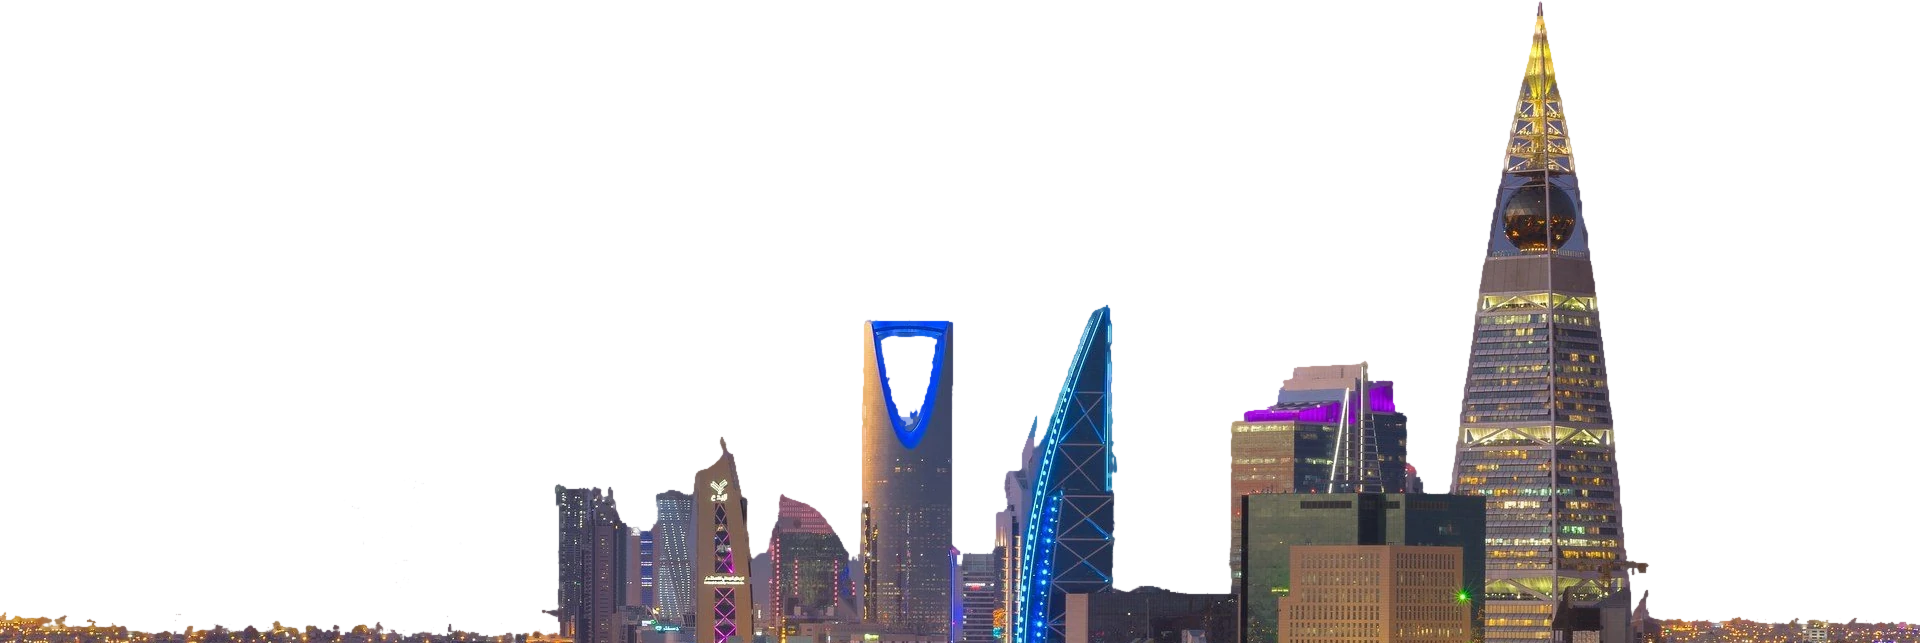
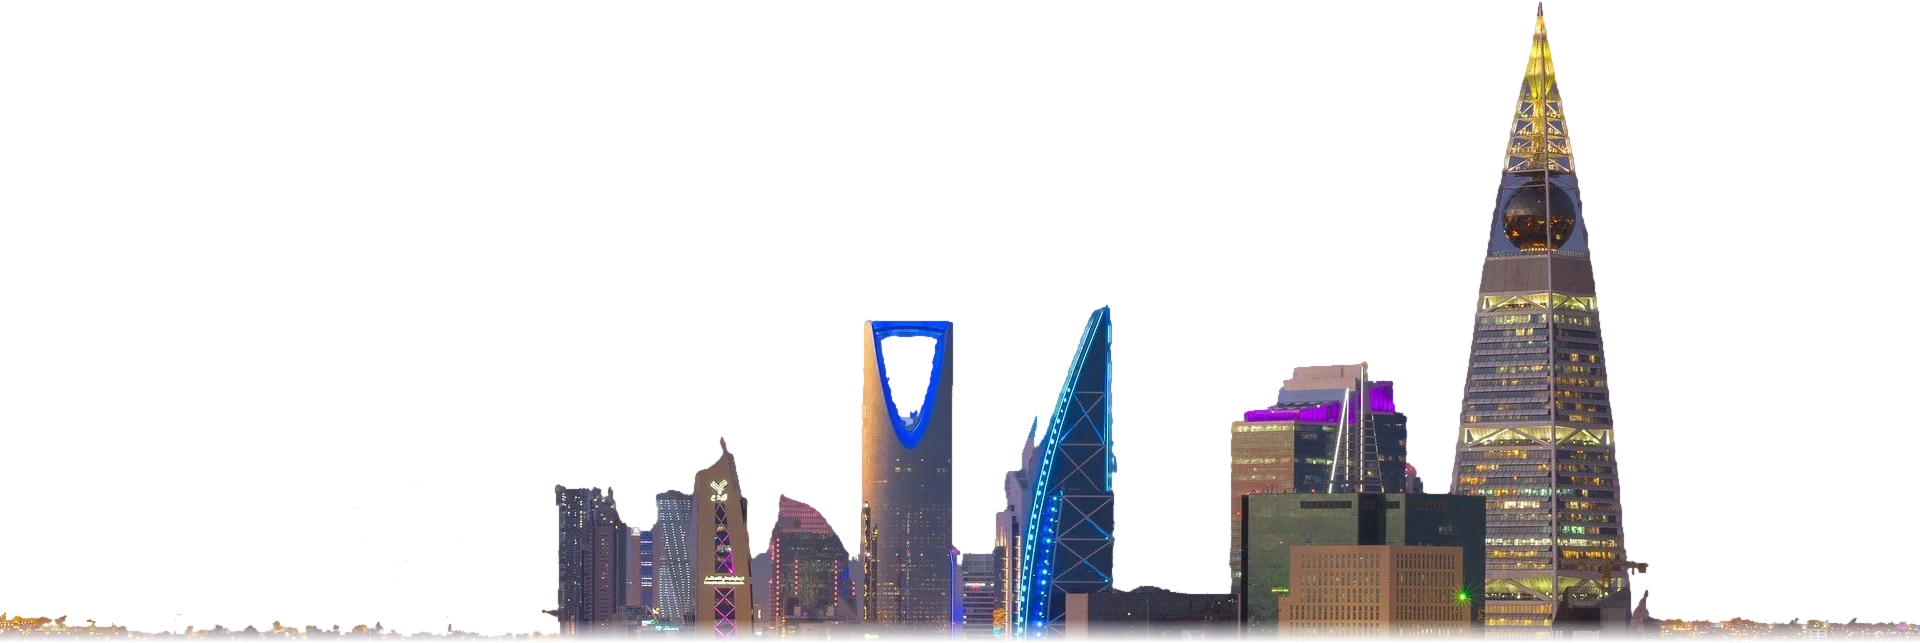
A cut-out cropped at 72 % of the height fades out over its last 24 px: no seam where it ends (the cards session's renders); the bundled Riyadh cut-out with it

Changed region(s): [[0.0, 0.9642, 1.0, 1.0]]

diff --git a/.github/tools/photo_masks.py b/.github/tools/photo_masks.py
@@ -360,7 +360,12 @@ def encode(F, alpha):
     if bb is None: return None, None
     # the digits' bottom is at most 70 % down (PhotoGlassPlan: LOWEST 0.62 and 30 % of a digit under it), and the zoom is about the top, so below
     # 72 % the cut-out would only cover the same photo under it: it stops there (smaller, the same picture)
-    bb = (bb[0], bb[1], bb[2], min(bb[3], round(H * 0.72)))
+    if bb[3] > round(H * 0.72):
+        bb = (bb[0], bb[1], bb[2], round(H * 0.72))
+        a8 = a8.copy()                                   # the last 24 px fade out: no seam where it ends, whatever the TV scales
+        ramp = np.linspace(1, 0, 24, dtype=np.float32)[:, None]
+        a8[bb[3] - 24:bb[3]] = (a8[bb[3] - 24:bb[3]] * ramp + 0.5).astype(np.uint8)
+        rgba = Image.fromarray(np.dstack([F, a8]), "RGBA")
     if bb[3] <= bb[1]: return None, None
     crop = rgba.crop(bb)
     for aq in (100, 90):
